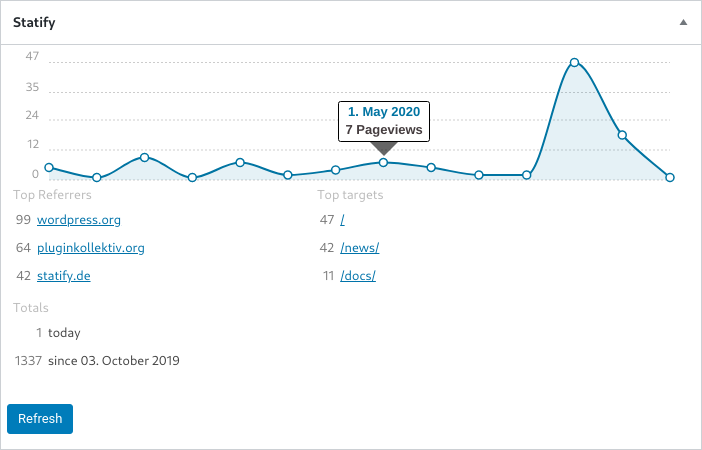
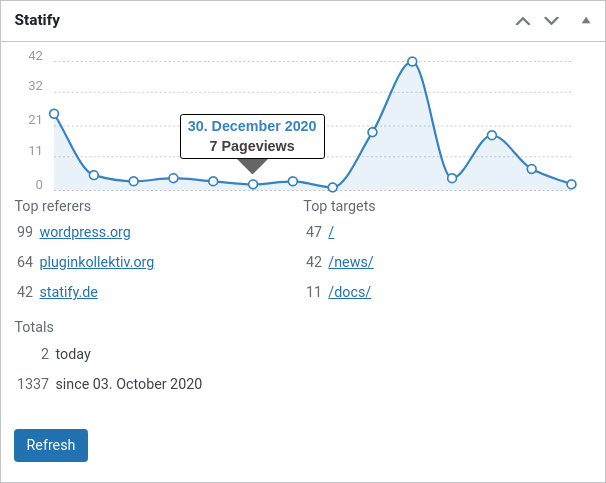
prepare release 1.8.2
* raise stable tag to 1.8.2
* minor changelog adjustments
* upgrade notice
* update screenshots

diff --git a/CHANGELOG.md b/CHANGELOG.md
@@ -2,7 +2,7 @@
 All notable changes to this project will be documented in this file. This project adheres to [Semantic Versioning](http://semver.org/).
 
 ## 1.8.2
-* Minor color adjustments for the dashboard widget (#197)
+* Minor adjustments for the dashboard widget (#197) (#199)
 * Tested up to WordPress 5.7
 
 ## 1.8.1
